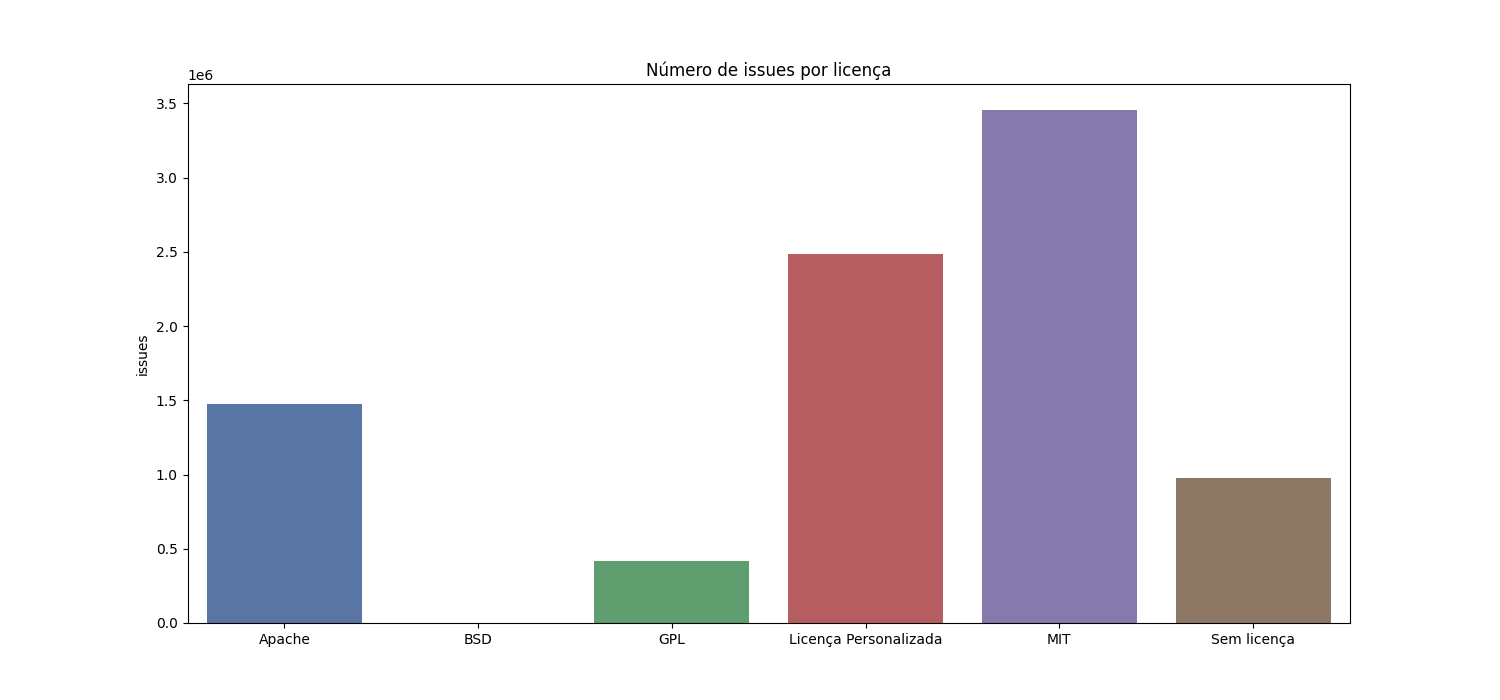
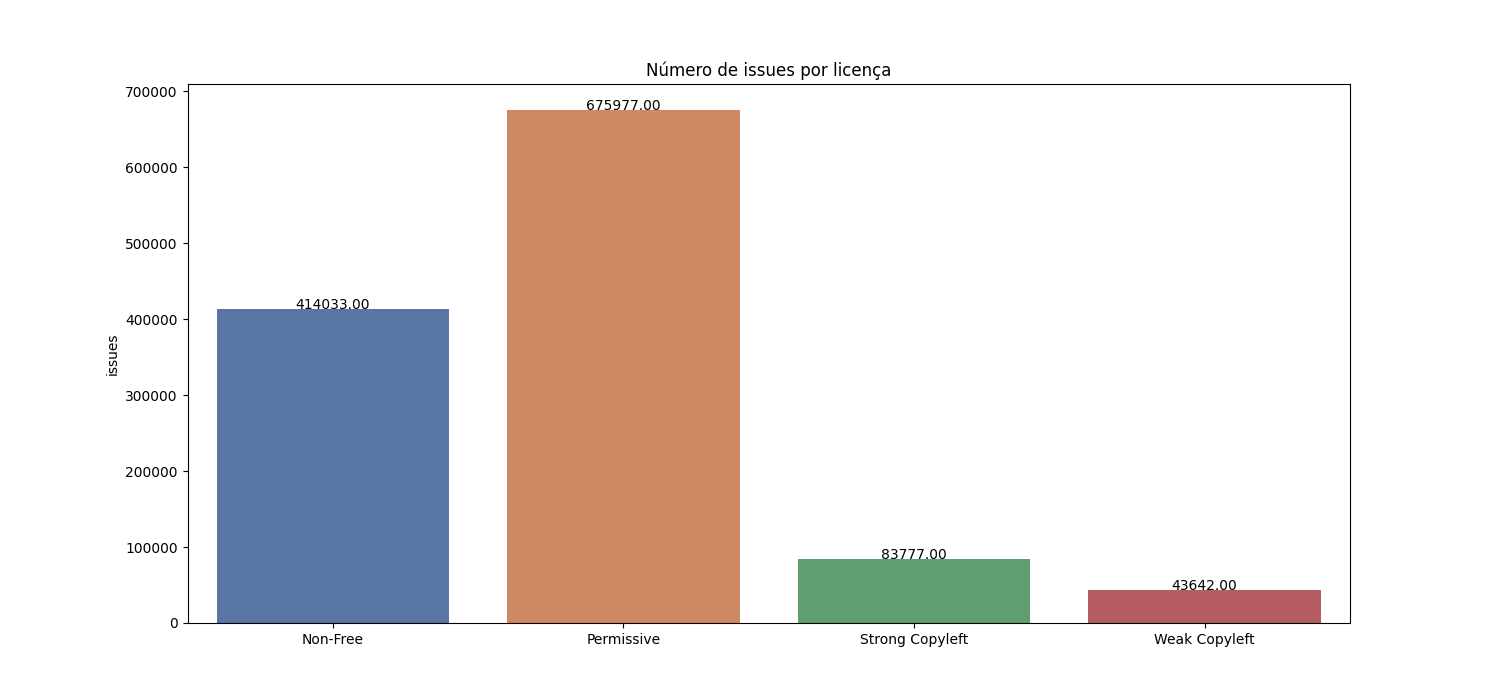
Fixing graphs

diff --git a/lib/stats.py b/lib/stats.py
@@ -19,20 +19,18 @@ REPOS_BY_LICENSE_QUERY = """
     GROUP BY r.license;
 """
 
-bsd = ["BSD 2-Clause ""Simplified"" License",
-"BSD 3-Clause ""New"" or ""Revised"" License",
-"BSD 3-Clause Clear License",
-"BSD Zero Clause License"]
+strong_copyleft = ["GNU General Public License v2.0", "GNU General Public License v3.0",
+ "GNU Affero General Public License v3.0"]
 
-mit = ["MIT License"]
+weak_copyleft = ['Eclipse Public License 1.0',
+ 'Eclipse Public License 2.0', 'GNU Lesser General Public License v2.1',
+ 'GNU Lesser General Public License v3.0', 'Microsoft Reciprocal License',
+ 'Mozilla Public License 2.0', 'Open Software License 3.0']
 
-gpl = ['GNU Affero General Public License v3.0',
-'GNU General Public License v2.0',
-'GNU General Public License v3.0',
-'GNU Lesser General Public License v2.1',
-'GNU Lesser General Public License v3.0']
-
-apache = ['Apache License 2.0']
+permissive = ['Apache License 2.0', 'BSD 2-Clause "Simplified" License',
+ 'BSD 3-Clause "New" or "Revised" License', 'BSD 3-Clause Clear License',
+ 'BSD Zero Clause License', 'Boost Software License 1.0', 'ISC License',
+ 'MIT License', 'Universal Permissive License v1.0']
 
 def execute_query(query):
     return engine.execute(query)
@@ -41,17 +39,14 @@ def execute_query(query):
 #     return execute_query(REPOS_BY_LICENSE_QUERY)
 
 def map_license_to_group(license):
-    if license in bsd:
-        return 'BSD'
-    elif license in mit:
-        return 'MIT'
-    elif license in gpl:
-        return 'GPL'
-    elif license in apache:
-        return 'Apache'
-    elif license != 'Sem licença':
-        return 'Licença Personalizada'
-    return license
+    if license in strong_copyleft:
+        return 'Strong Copyleft'
+    elif license in weak_copyleft:
+        return 'Weak Copyleft'
+    elif license in permissive:
+        return 'Permissive'
+    else:
+        return 'Non-Free'
 
 def group_licenses(data):
     data['license'] = data['license'].apply(lambda x: map_license_to_group(x))
@@ -66,6 +61,7 @@ def plot_repos_by_license():
     plot_issues_per_license(data)
     plot_stars_per_license(data)
     plot_watchers_per_license(data)
+    plot_repos_per_license(data)
 
 def plot_commits_per_license(data):
     plot_graph(data, 'license', 'commits', 'Número de commits por licença')
@@ -82,6 +78,9 @@ def plot_stars_per_license(data):
 def plot_watchers_per_license(data):
     plot_graph(data, 'license', 'watchers', 'Número de watchers por licença')
 
+def plot_repos_per_license(data):
+    plot_graph(data, 'license', 'numberOfRepos', 'Número de repositórios por licença')
+
 def plot_graph(data, x, y, title):
 
     dataset = data.groupby(by=[x])[y].sum().reset_index(name=y)
@@ -89,7 +88,27 @@ def plot_graph(data, x, y, title):
     print(dataset)
 
     ax = sns.barplot(x=x, y=y, palette='deep', data = dataset)
+
+    # for index, row in dataset.iterrows():
+    #     print(row.array)
+    #     ax.text(row.name, row.array[0], round(row.array[1], 2), color='black', ha="center")
+    show_values_on_bars(ax)
     ax.set_title(title, color='black')
     ax.set_xlabel('')
     ax.figure.set_size_inches(15,7)
     ax.figure.savefig(title + '.png')
+    ax.figure.clf()
+
+def show_values_on_bars(axs):
+    def _show_on_single_plot(ax):
+        for p in ax.patches:
+            _x = p.get_x() + p.get_width() / 2
+            _y = p.get_y() + p.get_height()
+            value = '{:.2f}'.format(p.get_height())
+            ax.text(_x, _y, value, ha="center")
+
+    if isinstance(axs, np.ndarray):
+        for idx, ax in np.ndenumerate(axs):
+            _show_on_single_plot(ax)
+    else:
+        _show_on_single_plot(axs)
